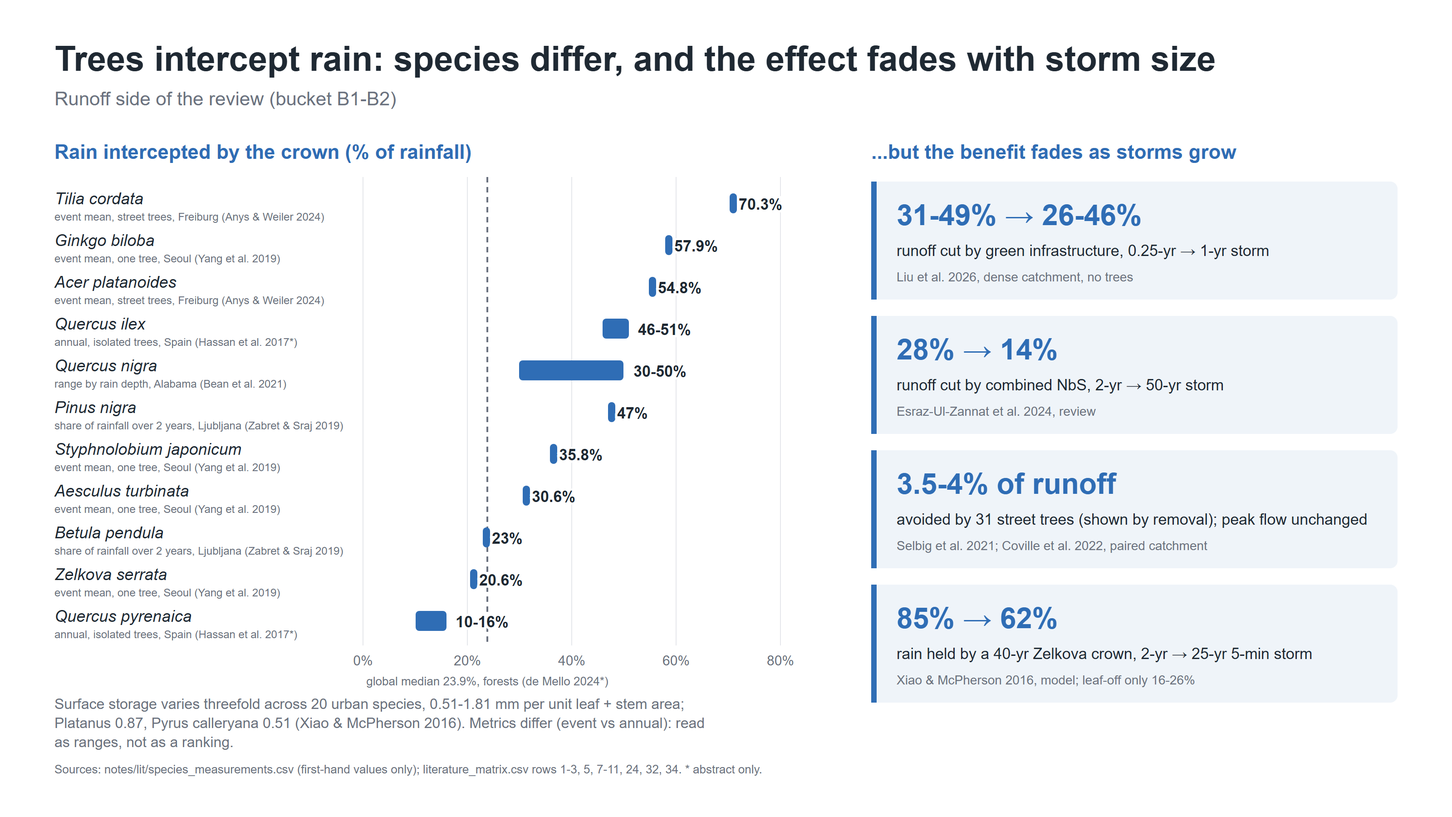
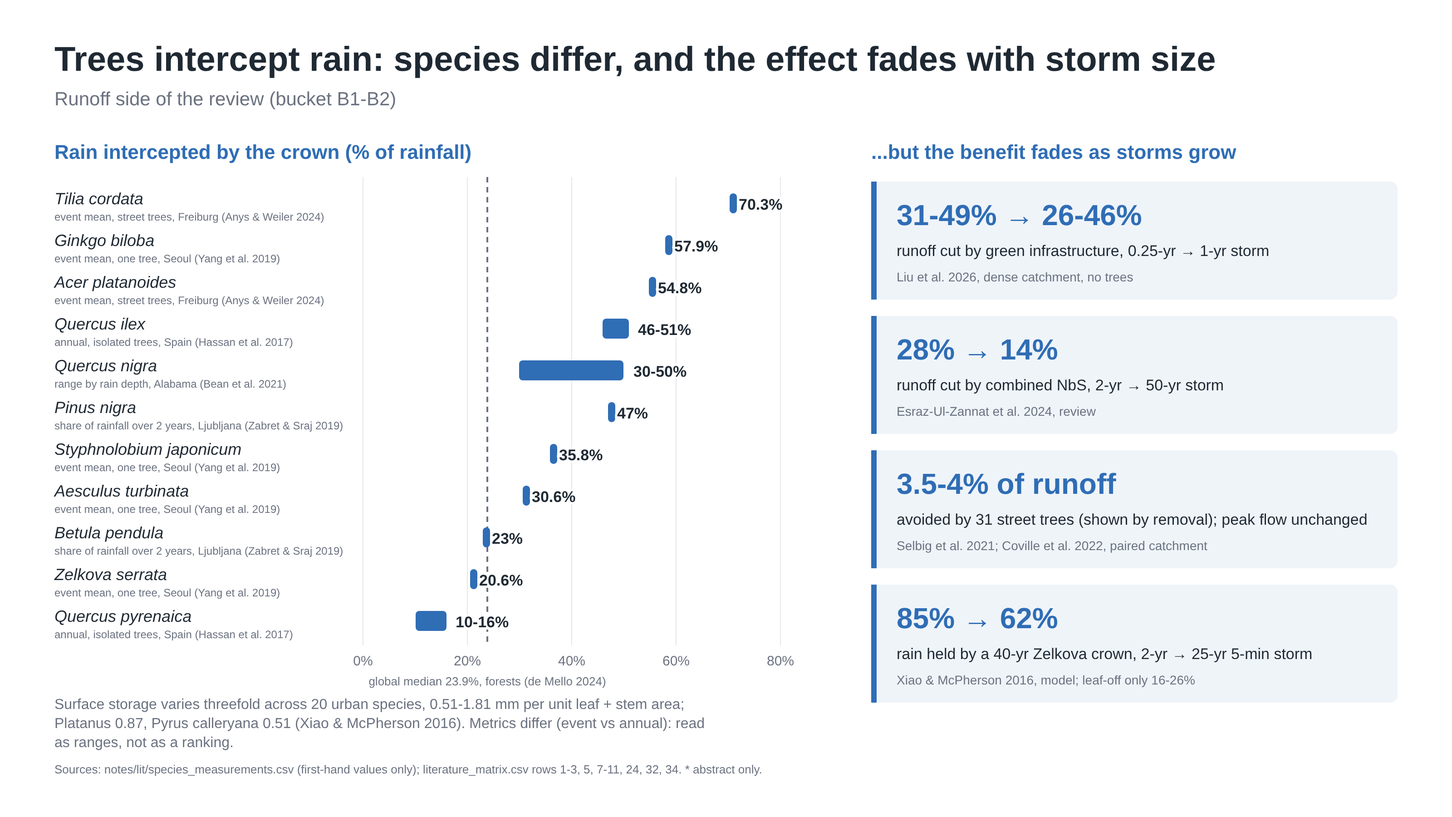
Read five priority papers in full and update matrix, notes and figures
Dowtin 2023, Hassan 2017, de Mello 2024, Rahman 2019 and Kaluarachchi
2020 move from abstract-only to full text. Adds Hassan Gash parameters
and event-size interception, Kaluarachchi field LAI for Platanus, Pyrus
and Jacaranda, Mediterranean nuance from Rahman to the heat module, and
removes the abstract-only markers from infographics 01-03.

Claude-Session: https://claude.ai/code/session_01RSaTmNbwipyEKh3hVkoffb

diff --git a/scripts/make_infographics.py b/scripts/make_infographics.py
@@ -144,7 +144,7 @@ def fig_runoff_evidence():
     for v in range(0, 81, 20):
         b += line(sx(v), 195, sx(v), 205 + H, GRID, 1) + t(sx(v), 205 + H + 22, f"{v}%", 15, MUTED, anchor="middle")
     b += line(sx(23.9), 195, sx(23.9), 205 + H, MUTED, 2, "6 5")
-    b += t(sx(23.9), 205 + H + 44, "global median 23.9%, forests (de Mello 2024*)", 13, MUTED, anchor="middle")
+    b += t(sx(23.9), 205 + H + 44, "global median 23.9%, forests (de Mello 2024)", 13, MUTED, anchor="middle")
     for r in m.itertuples():
         star = "*" if r.read_level == "abstract" else ""
         b += t(60, y + 20, r.species, 18, italic=True)
@@ -180,7 +180,7 @@ def fig_traits():
     b += rect(xr, 150, cw, 44, RAIN, op=0.12) + t(xr + 18, 179, "RUNOFF: canopy interception", 20, RAIN, "bold")
     bands = [("HELP BOTH", TREE, [
         ("Leaf area (LAI, crown density)",
-         "Canopy density is the strongest driver of cooling (Rahman et al. 2019*); LAI and crown width matter most for shade (Speak et al. 2020*)",
+         "Canopy density is the strongest driver of cooling (Rahman et al. 2019); LAI and crown width matter most for shade (Speak et al. 2020*)",
          "Interception rises with LAI / PAI (Anys & Weiler 2024); leaf-area density drives storage capacity (Baptista et al. 2018)"),
         ("Crown size",
          "Big, dense crowns with a low base give the best shade and comfort (Helletsgruber et al. 2020)",
@@ -194,7 +194,7 @@ def fig_traits():
          "Dry soils before a storm give ~10% more runoff reduction; wet soils give more cooling (Pace et al. 2025)")]),
         ("LIMITS", MUTED, [
         ("Context",
-         "Surface material can outweigh tree traits for surface cooling (Kaluarachchi et al. 2020*)",
+         "Surface material can outweigh tree traits for surface cooling (Kaluarachchi et al. 2020)",
          "Leafy crowns hold only the first 2-4 mm of a storm, so canopies work best in short, light storms (Kuehler et al. 2017)")])]
     y = 208
     for band, col, rows in bands:

diff --git a/notes/topic_decision.md b/notes/topic_decision.md
@@ -3,7 +3,7 @@
 > **Update v3 (same day):** a dual heat + runoff version was added in §6 after a second literature round (21 heat papers, rows #35–#55) and a city screening (`notes/city_screening.md`). §1–§5 below are the runoff-only v2, kept as the fallback.
 
 Inputs (v2, 7 Oct): 34 papers in `notes/lit/literature_matrix.csv` (13 read as full-text digests, 21 from abstracts only, marked there; on 8 Oct the matrix has 61 rows, 47 read in full), plus `databases/data_inventory.md`.
-Citations below give author, year and the matrix row (#). Claims from abstracts only are marked (abs). **Still to do before 20 Oct:** read the full text of rows #4 and #10 (#3 read on 8 Oct; #18 digested from full text). These carry the argument.
+Citations below give author, year and the matrix row (#). Claims from abstracts only are marked (abs). Rows #4 and #10, which carry the argument, are now read in full (#3 on 8 Oct, #10 on 9 Oct, #4 on 12 Oct; #18 digested from full text).
 
 ---
 
@@ -13,7 +13,7 @@ Citations below give author, year and the matrix row (#). Claims from abstracts 
 |---|---|---|
 | **Flood type** | Florence: whole city exposed to pluvial and flash floods from the minor network and a ~800 km combined 19th-century sewer; hotspots in flat, highly sealed areas incl. historic centre, validated against historical pluvial events (Pacetti et al. 2022, #18). Emilia-Romagna May 2023: no hourly extremes, multi-day accumulation, return period >500 yr (Scoccimarro et al. 2025, #21); mainly stratiform rain at 2–5 mm/h on saturated soils (Cremonini et al. 2024, #61). Bologna Oct 2024: 160–180 mm/24 h on saturated soils, culverted streams overflowed (Arpae report; see data inventory). Ravone culvert insufficient for intense events (Dottori et al. 2014, #20) | **Florence fits a pluvial framing; Bologna's recent events do not.** v2 names *urban pluvial flooding from frequent short storms* and explicitly excludes multi-day/fluvial events |
 | **Testability** ("significantly reduces", "extreme precipitation") | Tree effect is largest for short, low-intensity storms and falls with depth and intensity (leafy crowns hold the first 2–4 mm, Kuehler et al. 2017 #9; Anys & Weiler 2024 #1; per-event interception falls from 87% to 1% as rain depth grows, Song et al. 2020 #12). Catchment experiment: 4% runoff-volume reduction from 31 street trees, **no peak-flow effect** (Selbig et al. 2021 #10); 3.5% of total runoff in the calibrated re-analysis (Coville et al. 2022 #11). NbS effect decays with return period (Costa et al. 2021 #23; Esraz-Ul-Zannat et al. 2024 #32; Liu et al. 2026 #24); the 10-yr storm, the most frequent one modelled, carries 74% of the expected annual flood damage in Aveiro (Quagliolo et al. 2023 #60) | Metric = **event runoff volume** from sealed surfaces (not peak discharge). Storms = **local design storms of 2, 5, 10-yr return period, ≥1 h** (Tuscany LSPP grid; ≥1 h avoids the 15-min aggregation bias, Lompi et al. 2022 #19). Baseline and comparison defined (§4) |
-| **Traits vs biomass** | Interception differs strongly between species: storage capacity varies threefold among 20 species (Xiao & McPherson 2016 #3); *Tilia cordata* 70% vs *Acer platanoides* 55% event interception (Anys & Weiler 2024 #1); *Quercus ilex* 46–51% vs *Q. pyrenaica* 10–16% (Hassan et al. 2017 #8 (abs)); birch 23% vs pine 47% (Zabret & Sraj 2019 #7); *Ginkgo* 58% vs *Zelkova* 21%, one tree each (Yang et al. 2019 #5). LAI / leaf area density is the main driver (LAI: Anys & Weiler #1; central-crown LAI and small leaves, not leaf area density: Yang et al. 2019 #5; leaf area density: Baptista et al. 2018 #6); full trait list in Dowtin et al. 2023 #4 (abs) | Supported for *interception*: species traits (storage capacity, LAI, leaf area density) matter, not just size. **Not** supported for roots: only two lab studies (#16, #17). Bartens et al. 2008 (#16, read in full) show that tree roots raise infiltration through compacted subsoil, but black oak (coarse roots) and red maple (fine roots) did not differ significantly. Zhang et al. 2019 (#17, read in full) found +118% (tap-rooted *Sophora*) vs +19% (fibrous *Malus*), but for three-year-old saplings in lab tanks, measured one year after planting. v2 drops "deep root architecture" as a claim and keeps roots out of the scoring |
+| **Traits vs biomass** | Interception differs strongly between species: storage capacity varies threefold among 20 species (Xiao & McPherson 2016 #3); *Tilia cordata* 70% vs *Acer platanoides* 55% event interception (Anys & Weiler 2024 #1); *Quercus ilex* 46–51% vs *Q. pyrenaica* 10–16% of annual rain, one isolated tree each (Hassan et al. 2017 #8); birch 23% vs pine 47% (Zabret & Sraj 2019 #7); *Ginkgo* 58% vs *Zelkova* 21%, one tree each (Yang et al. 2019 #5). LAI / leaf area density is the main driver (LAI: Anys & Weiler #1; central-crown LAI and small leaves, not leaf area density: Yang et al. 2019 #5; leaf area density: Baptista et al. 2018 #6); full trait list in Dowtin et al. 2023 #4 (systematic review, 99 articles: LAI, canopy density, crown projection area, leaf angle, hydrophobicity, bark storage; directions only, no effect sizes) | Supported for *interception*: species traits (storage capacity, LAI, leaf area density) matter, not just size. **Not** supported for roots: only two lab studies (#16, #17). Bartens et al. 2008 (#16, read in full) show that tree roots raise infiltration through compacted subsoil, but black oak (coarse roots) and red maple (fine roots) did not differ significantly. Zhang et al. 2019 (#17, read in full) found +118% (tap-rooted *Sophora*) vs +19% (fibrous *Malus*), but for three-year-old saplings in lab tanks, measured one year after planting. v2 drops "deep root architecture" as a claim and keeps roots out of the scoring |
 | **Scope** | Florence offers hotspot maps (Pacetti #18), 1 m LiDAR, regional IDF grid, HSG 1:10,000 (used by Pacetti), 82k-tree inventory. NBS space in a hotspot district is only 0.1–7.1% of its area (Pacetti #18) | **One city (Florence), one scale (small catchment / district hotspot, ~0.5–2 km²), one intervention (street and square trees over sealed surfaces)** |
 | **User** | Tree-selection DSSs rarely include climate resilience (Yadav et al. 2024 #27); bioretention guidelines select plants by native status far more than by traits (Rahmi et al. 2025 #26: 47 guidelines, 3 of 30 North American ones name any trait; rain gardens, not street trees); SylvCiT's runoff module is disabled (Nicol et al. 2026 #28) | Primary user = **computational designer / landscape architect in the early design phase**. The municipal planner is the secondary reader of the outputs |
 
@@ -63,7 +63,7 @@ In a pluvial-flood hotspot catchment of Florence, how much event runoff volume f
 7. **Validation:** (i) interception module vs open Freiburg field data (Anys & Weiler 2024, FreiDok); (ii) per-tree and per-m² canopy results vs Selbig et al. 2021 / Coville et al. 2022 (field 6,376 L/tree, 66 L/m² canopy per leaf-on season; calibrated i-Tree Hydro 6,120 L/tree, 63.5 L/m²); (iii) hotspot consistency vs Pacetti PFI.
 
 ## 5. Open checks (before 20 Oct)
-- [ ] Get full text: Dowtin 2023 (#4). Done: Xiao & McPherson 2016 (#3) and Llorens & Domingo 2007 (#57, Mediterranean partitioning review) on 8 Oct; Selbig 2021 (#10) on 9 Oct. See `notes/lit/to_get_manually.md`.
+- [x] Get full text: Dowtin 2023 (#4), read on 12 Oct together with Hassan 2017 (#8), de Mello 2024 (#34), Rahman 2019 (#38) and Kaluarachchi 2020 (#45). Earlier: Xiao & McPherson 2016 (#3) and Llorens & Domingo 2007 (#57, Mediterranean partitioning review) on 8 Oct; Selbig 2021 (#10) on 9 Oct. See `notes/lit/to_get_manually.md`.
 - [x] Count species coverage: done for Florence and Barcelona, see `databases/*/species_coverage.csv` and §6.1.
 - [ ] Get full text of Llorens 2006 (Mediterranean rainfall partitioning): the most likely source for Quercus ilex / Pinus / evergreen interception values.
 - [ ] Confirm access to Tuscany HSG 1:10,000 and Pacetti's PFI map (ask authors?).
@@ -77,8 +77,8 @@ In a pluvial-flood hotspot catchment of Florence, how much event runoff volume f
 | Question | Evidence | Verdict |
 |---|---|---|
 | Do cities suffer both, in the same places? | Florence: pluvial hotspots in the flat, sealed centre (Pacetti 2022 #18); the hottest stations are also in the centre, with less green (Petralli, #49, search summary); in the centre, street air is ~1.5 C warmer than in gardens on average and up to ~2 C on calm evenings in May (Petralli et al. 2006 #76). Barcelona: high UHI mortality (Iungman 2023 #35) and recurrent intense-rain flooding in dense districts (Barcelona Resilience Atlas). Mediterranean review confirms the dual exposure (Stavropoulos 2026 #54) | **Yes** (see `notes/city_screening.md`) |
-| Do the same tree traits drive both? | Interception rises with LAI / leaf area density (Anys & Weiler 2024 #1; Yang 2019 #5). Shade cooling rises with canopy density, LAI and crown width (Rahman 2019 #38 (abs); Speak 2020 #39 (abs); Helletsgruber 2020 #40). The flip side: heat that thins crowns cuts both at once (Platanus lost roughly 30–50% of its plant area index after a > 41 °C heatwave, Sanusi & Livesley 2020 #66) | **Partly shared**: LAI and crown size help both |
-| Where do they conflict? | (a) Leaf habit: evergreen crowns intercept in autumn–winter storms but block winter sun; seasonal LAI trade-off for comfort (Peng 2026 #53). (b) Water: transpiration is the larger air-cooling term (Park 2026 #42) and needs soil water (Pace 2025 #13); diffuse-porous species such as Platanus transpire 2–3× ring-porous ones (Bachofen 2025 #43). (c) Surface material can matter more than species for surface temperature (Kaluarachchi 2020 #45 (abs)) | **Real trade-offs**, so a multi-objective method is needed rather than one score |
+| Do the same tree traits drive both? | Interception rises with LAI / leaf area density (Anys & Weiler 2024 #1; Yang 2019 #5). Shade cooling rises with canopy density, LAI and crown width (Rahman 2019 #38: about 4 °C of surface cooling per unit LAI; shade cooling is largest over asphalt and in Mediterranean climates, transpiration is smallest in Mediterranean climates and about 10× lower for trees in paved pits than over grass; Speak 2020 #39 (abs); Helletsgruber 2020 #40). The flip side: heat that thins crowns cuts both at once (Platanus lost roughly 30–50% of its plant area index after a > 41 °C heatwave, Sanusi & Livesley 2020 #66) | **Partly shared**: LAI and crown size help both |
+| Where do they conflict? | (a) Leaf habit: evergreen crowns intercept in autumn–winter storms but block winter sun; seasonal LAI trade-off for comfort (Peng 2026 #53). (b) Water: transpiration is the larger air-cooling term (Park 2026 #42) and needs soil water (Pace 2025 #13); diffuse-porous species such as Platanus transpire 2–3× ring-porous ones (Bachofen 2025 #43). (c) Surface material can matter more than species for surface temperature: across 471 Sydney trees, LAI and crown area did not change the sun–shade surface difference, which ranged from −17.5 °C (concrete pavers) to −24.8 °C (bark mulch) (Kaluarachchi 2020 #45) | **Real trade-offs**, so a multi-objective method is needed rather than one score |
 | Is it already done? | Mannucci 2025 #51: Grasshopper + Ladybug + Kangaroo assess UTCI **and** runoff, but by scenario testing, with no species traits and no optimisation. Shaamala 2025 #52 and Peng 2026 #53 optimise species/placement for **heat only**; so do Hao 2023 #62 (genetic algorithm, identical trees), Elkhateeb 2025 #63 (Galapagos, shade only, hypothetical sites) and Oneto 2026 #64 (machine learning on Ladybug shading runs, species matched afterwards by size). Cortinovis 2022 #69 assesses heat and runoff for Barcelona, but city-wide, with trees as land cover. Closest: Tan & Liu 2026 #80 optimise species (crowns from US allometry) and positions of a fixed 30 trees for UTCI, CO2 uptake and diversity with a surrogate and NSGA-II in Grasshopper, but with no runoff. SylvCiT has neither (#28) | **Gap**: no method selects species *and* positions using measured traits for both objectives |
 | Is there trait data? | Florence top-30 species (80% of 82,226 trees): a species-level runoff or heat value exists for 19% of trees, both for 7%. Barcelona top-30 (91% of 140,404 street trees): 40% and 29% (Platanus alone 28.6%). **Celtis australis is #2 in both cities with no value at all**; Mediterranean evergreens (Cupressus, Quercus ilex for heat, Olea, Pinus pinea) are weakly covered (`databases/*/species_coverage.csv`) | **Usable with explicit gap-filling** (genus/leaf-habit classes + sensitivity analysis). The gap itself is a finding |
 

diff --git a/notes/methodology.md b/notes/methodology.md
@@ -34,7 +34,7 @@ For each tree: position, species, **height H, crown diameter D, crown base Hb** 
 ## 4. Runoff module (Python, later a Grasshopper component via Hops)
 Event based, per street segment:
 1. Rain depth P(T, d) from the PDISBA IDF curves, T = 1, 2, 10 yr, d = 1 h (plus observed storms if BCASA gauge data arrive; fallback: Netatmo personal weather stations, 5-min public data, r = 0.94 with official daily gauges for one event, 24 station pairs, Valencia, Rombeek et al. 2025; check station density in Nou Barris and the data terms first).
-2. **Canopy interception** over each crown's projection on sealed ground: storage-bucket I = min(P, S) with S from species storage capacity × LAI. An analytical Gash-type model (Hassan et al. 2017; Huang et al. 2017) is the refinement; Huang et al. validated it on two conifers only, and found the evaporation-to-rain ratio the most sensitive input. Stemflow is ignored (<1% of rain; Anys & Weiler 2024).
+2. **Canopy interception** over each crown's projection on sealed ground: storage-bucket I = min(P, S) with S from species storage capacity × LAI. An analytical Gash-type model (Hassan et al. 2017; Huang et al. 2017) is the refinement; Huang et al. validated it on two conifers only, and found the evaporation-to-rain ratio the most sensitive input. Hassan et al. give Mediterranean parameters for one isolated tree each: *Quercus ilex* S 1.75 mm, p 0.31, c 0.69, E/R 0.38; *Q. pyrenaica* S 0.66 mm, p 0.74, c 0.26, E/R 0.21. They used wet-canopy evaporation from throughfall regression; Penman-Monteith underestimated interception by 48–60%. Stemflow is ignored (<1% of rain; Anys & Weiler 2024).
 3. **Tree-pit infiltration**: pit area × infiltration rate × event duration (literature range; Bartens et al. 2008, Zhang et al. 2019). Absolute values from Bartens et al. (read in full): approximate container saturated conductivity of compacted clay loam (1.59 g/cm3) 1.3e-3 cm/s (~47 mm/h) without a tree, 3.0–3.9e-3 cm/s (~108–140 mm/h) with young oak or maple; 1.31e-3 vs 4.83e-5 cm/s (~47 vs ~1.7 mm/h) with vs without green ash (structural soil over compacted subsoil). These are lab values for the most restrictive layer, so use them only to bracket a sensitivity range. Zhang et al. (2019, read in full), three-year-old saplings in loam tanks, one year after planting: 0.28 m/d (~12 mm/h) without a tree, 0.33 m/d (+19%, fibrous *Malus baccata*), 0.61 m/d (~25 mm/h, +118%, tap-rooted *Sophora japonica* = *Styphnolobium*). Roots help; whether the effect depends on species is unclear (Bartens: oak vs maple not significant; Zhang: tap vs fibrous differ, young trees in tanks), so the term stays species-independent. Why the pit matters: once sealed surfaces drain onto the tree's soil, the canopy benefit fades and infiltration controls runoff; with run-on from 3× the soil area, raising infiltration from 0.036 to 3.6 mm/h cuts the November runoff probability from 89% to <1% (Marrazzo & Raimondi 2025, analytical model, *Platanus*, Lecco rain). Pit sizing (read in full): in Melbourne clay, 0.72 m² kerb pits draining ~200 m² kept a median 11% of runoff; ~90% retention needs a pit of 2.5–8% of its impervious catchment, and exfiltration (≥ 88%), not the young tree (~4%), removes the water (Grey et al. 2018). Established evergreen street trees transpired the equivalent of 17% of the annual runoff from the ~200 m² impervious catchment draining to each 6 m² trench, but the trench did not raise their transpiration (Thom et al. 2020; Apr–Sep modelled from ETo). If the pit is added, its variables are pit area relative to catchment and native-soil exfiltration; species enter through the crop factor (0.33–1.56 among 13 potted species, *Pyrus calleryana* in the high class; Thom et al. 2022), which matters little while trees are young (crop factor < 5% effect in Grey et al. 2018).
 4. Remaining rain on sealed surfaces → SCS curve number (CN ≈ 98 sealed) → **event runoff volume (m³)**.
 - **Validation:** (i) interception module vs the open Freiburg field data (Anys & Weiler 2024, FreiDok); (ii) per-tree and per-m²-canopy volumes vs paired-catchment benchmarks (Selbig et al. 2021: 6,376 L/tree; Coville et al. 2022: field 66 L/m² canopy per leaf-on season (Selbig et al., read in full: 4% of runoff, peak discharge unchanged; event data reported as a USGS data release, Carvin & Selbig 2021, not yet checked), calibrated i-Tree Hydro 6,120 L/tree and 63.5 L/m²; uncalibrated defaults gave about twice the total runoff); (iii) plausibility vs the flood-hazard index pattern.
@@ -43,9 +43,9 @@ Event based, per street segment:
 - **Grid:** 1 m over Porta (83.7 ha): roofs 29% (OSM footprints, CN 98), sealed open space 52% (CN 98), pervious 19% (NDVI 2017 ≥ 0.3 and LiDAR canopy < 2 m, or OSM park/garden/grass; CN 74 = TR-55 open space HSG C, *assumption*).
 - **Storms:** PDISBA city-level empirical IDF, design intensity (`databases/barcelona/pdisba_idf_city.csv`): T1-60 min 19.6 mm, T2-60 31.9 mm, T10-60 62.5 mm, T2-20 min 21.2 mm.
 - **Trees:** 2,600 LiDAR street-tree crowns (disk of LiDAR crown diameter; LAI = LiDAR proxy). Non-street canopy (parks, squares, private; 10.2 ha) is fixed background (LAI 2.3).
-- **Calibration** of effective canopy storage S = s·LAI on Anys & Weiler (2024) open field data (16 urban *Tilia cordata* / *Acer platanoides*, Apr–Sep 2021, 51 events ≥ 1 mm): **s = 1.75 mm per unit LAI** (pooled median; lime 1.85, maple 1.60), per-tree interception 38–78% of rain, event RMSE 0.9–3.2 mm. The effective value includes evaporation during events; for Barcelona's short intense storms it may be lower, so 0.86 mm (surface storage only, Xiao & McPherson 2016) is the lower bound in the sensitivity runs. Plausibility of s: leafy crowns hold the first 2–4 mm of a storm (Kuehler et al. 2017), and S = 1.75 × 2.3 ≈ 4.0 mm; Coville et al. (2022) set i-Tree Hydro's leaf storage depth to 2.0 mm (typical 0.07–0.6, mean 0.25 mm) from in-situ estimates to match the field data, while noting that the value may be site-specific. Lower-bound evidence: Leyton storage 3.5 mm at LAI 2.6 (birch) and 2.9 mm at LAI 4.3 (pine), i.e. ~1.35 and ~0.67 mm per unit LAI (Zabret & Sraj 2019; surface storage only, without evaporation during events). Default leaf storage of 0.2 mm (Wang et al. 2008 via Huang et al. 2017; Dickinson 1984 via Marrazzo & Raimondi 2025) may underestimate interception.
+- **Calibration** of effective canopy storage S = s·LAI on Anys & Weiler (2024) open field data (16 urban *Tilia cordata* / *Acer platanoides*, Apr–Sep 2021, 51 events ≥ 1 mm): **s = 1.75 mm per unit LAI** (pooled median; lime 1.85, maple 1.60), per-tree interception 38–78% of rain, event RMSE 0.9–3.2 mm. The effective value includes evaporation during events; for Barcelona's short intense storms it may be lower, so 0.86 mm (surface storage only, Xiao & McPherson 2016) is the lower bound in the sensitivity runs. Plausibility of s: leafy crowns hold the first 2–4 mm of a storm (Kuehler et al. 2017), and S = 1.75 × 2.3 ≈ 4.0 mm; Coville et al. (2022) set i-Tree Hydro's leaf storage depth to 2.0 mm (typical 0.07–0.6, mean 0.25 mm) from in-situ estimates to match the field data, while noting that the value may be site-specific. Lower-bound evidence: Leyton storage 3.5 mm at LAI 2.6 (birch) and 2.9 mm at LAI 4.3 (pine), i.e. ~1.35 and ~0.67 mm per unit LAI (Zabret & Sraj 2019; surface storage only, without evaporation during events); Jackson-method storage 1.75 mm at LAI 2.1 (*Quercus ilex*) and 0.66 mm at LAI 1.6 (*Q. pyrenaica*), i.e. ~0.83 and ~0.41 mm per unit LAI (Hassan et al. 2017). Default leaf storage of 0.2 mm (Wang et al. 2008 via Huang et al. 2017; Dickinson 1984 via Marrazzo & Raimondi 2025) may underestimate interception.
 - **Results (T2-60):** current street trees reduce Porta runoff by **1.85%** (open space only: 2.9%); the range across s = 0.86–2.2 and T = 1–10 yr is 0.4–4.0% (open space 0.7–6.3%). Plausibility: the same order as the measured 3.5–4% (Selbig et al. 2021; Coville et al. 2022). City-wide, Cortinovis et al. (2022) also found a small effect for Barcelona: 20,170 new street trees raised runoff retention from 50.18% to 50.76% for a 20 mm event (curve number, trees as land cover). Replacing all plane trees by mature Jacaranda/Melia/Tipuana: +0.17/+0.22/+0.27% runoff; by Celtis/Brachychiton: +0.60%; by Pyrus: +0.69%; **any young replacement: ≈ +0.7% (≈ 37% of the current street-tree benefit lost during the transition)**. The benefit shrinks with return period, supporting H3. Figure: `notes/figures/runoff_results_v1.png`.
-- **Known limits:** the LiDAR LAI proxy (median ~2.3) is probably lower than TLS-measured LAI (Freiburg 2.6–4.9), so storage is likely underestimated; the same s is used for every species (species differ only through crown size and LAI); no routing, sewer or ponding (volume only); tree pits are not yet modelled separately.
+- **Known limits:** the LiDAR LAI proxy (median ~2.3) is probably lower than TLS-measured LAI (Freiburg 2.6–4.9), so storage is likely underestimated. The bias is not the same for every species. Field LAI from a canopy imager in Sydney (Kaluarachchi et al. 2020) is 2.8 for *Platanus* (Porta proxy 2.31) and 2.6 for *Pyrus calleryana* (proxy 2.08), but only 2.0 for *Jacaranda* (proxy 2.91). The cities and methods differ, so treat this as a check of direction, not a correction; the same s is used for every species (species differ only through crown size and LAI); no routing, sewer or ponding (volume only); tree pits are not yet modelled separately.
 
 ## 5. Heat module (Ladybug Tools in Grasshopper now, Infrared City API later)
 **Tier 1, fast, used for many layouts:** point-based UTCI at 1.1 m on a 2 m sidewalk grid.
@@ -54,7 +54,7 @@ Limit: crowns act as opaque, so species differences enter only through crown siz
 **Tier 2, detailed check of a few layouts:** `HB UTCI Comfort Map` (Honeybee: Radiance + EnergyPlus), with trees as HB Shades carrying a Radiance transmittance modifier and an energy transmittance schedule (leaf-on/off) from τ. Run locally or on Pollination.
 **Later: Infrared City API** (UTCI/MRT in seconds) replaces Tier 1 inside the optimisation loop. Questions for the tutor are in `topic_decision.md` §6.4.
 - **Metrics:** mean UTCI on sun-exposed sidewalks at the design hour; share of points in **strong heat stress (UTCI > 32 °C)** or above (stress classes: Bröde et al. 2012 *(to add)*); hours > 32 °C over the hot week (Tier 2).
-- **Known limits:** the EPW is from the airport, not the city centre (test +1/+2 °C air-temperature offsets as sensitivity); UTCI uses wind at 10 m; transpiration cooling of air is not represented in Tier 1 (state it; Park 2026 shows it can exceed shading for air temperature). A fixed summer LAI overstates plane trees in heatwaves above ~40 °C (rare in Barcelona so far): Platanus lost roughly 30–50% of its plant area index after four days at 41.7–43.9 °C in Melbourne (Sanusi & Livesley 2020), so the plane baseline gets a low-LAI variant in the sensitivity runs. The design hour (day) misses night effects: dense tree clusters trap heat at night (Zölch et al. 2019); report it as a limit.
+- **Known limits:** the EPW is from the airport, not the city centre (test +1/+2 °C air-temperature offsets as sensitivity); UTCI uses wind at 10 m; transpiration cooling of air is not represented in Tier 1 (state it; Park 2026 shows it can exceed shading for air temperature). The omission matters less for Porta: in a meta-analysis of 26 field studies, transpiration per leaf area was lowest in Mediterranean climates (0.55 vs 6.96 g m⁻² min⁻¹ in Oceanic ones) and ~10× lower for trees in paved pits than over grass, while shade cooling of surfaces was largest over asphalt (Rahman et al. 2019; few Mediterranean studies, so possible bias). A fixed summer LAI overstates plane trees in heatwaves above ~40 °C (rare in Barcelona so far): Platanus lost roughly 30–50% of its plant area index after four days at 41.7–43.9 °C in Melbourne (Sanusi & Livesley 2020), so the plane baseline gets a low-LAI variant in the sensitivity runs. The design hour (day) misses night effects: dense tree clusters trap heat at night (Zölch et al. 2019); report it as a limit.
 - **Validation:** Ladybug vs ENVI-met in a Mediterranean square: UTCI MBE 0.8–2.3 °C, CVRMSE 7–13%; MRT worse under direct sun (CVRMSE 22–38%) (Mannucci et al. 2025). Tier 1 vs Tier 2 on the same layouts; optional MRT spot measurements in Porta (globe thermometer) on a hot day.
 
 ## 6. Optimisation

diff --git a/notes/lit/to_get_manually.md b/notes/lit/to_get_manually.md
@@ -5,14 +5,14 @@ Paywalled, or no open-access PDF found by the search. Get them through Zotero / 
 **Status 9 Oct 2026:** 45 of 96 obtained and read in full, plus Santos Nouri 2018 (added by hand); 51 of the list still to get. Years in the entries are the search's (often online) years; the matrix uses the issue year (e.g. Zölch 2019, Cortinovis 2022, Marrazzo 2025).
 
 ## 1. Get these first (6)
-Dowtin, Hassan, de Mello, Rahman 2019, Speak and Kaluarachchi carry claims that the slides, figures or notes still take from abstracts only.
+Dowtin, Hassan, de Mello, Rahman 2019, Speak and Kaluarachchi carry claims that the slides, figures or notes took from abstracts only. **12 Oct: all but Speak read in full.**
 
-- [ ] [T1] Asia L. Dowtin (2023). Towards optimized runoff reduction by urban tree cover: A review of key physical tree traits, site conditions, and management strategies. https://doi.org/10.1016/j.landurbplan.2023.104849 **Why:** review of the tree traits that reduce runoff. (matrix #4, abstract only)
-- [ ] [T1] Tarique Hassan (2017). Remote sensing upscaling of interception loss from isolated oaks: Sardon catchment case study, Spain. https://doi.org/10.1016/j.jhydrol.2017.08.016 **Why:** Quercus ilex vs Q. pyrenaica bars in figure 2 (abstract only). (matrix #8, abstract only)
-- [ ] [T1] Carlos Rogério de Mello (2024). Deciphering global patterns of forest canopy rainfall interception (FCRI): A synthesis of geographical, forest species, and methodological influences. https://doi.org/10.1016/j.jenvman.2024.120879 **Why:** global median interception line in figure 2 (abstract only). (matrix #34, abstract only)
-- [ ] [T1] Mohammad A. Rahman (2019). Traits of trees for cooling urban heat islands: A meta-analysis. https://doi.org/10.1016/j.buildenv.2019.106606 **Why:** tree-trait cooling meta-analysis, figure 3 (abstract only). (matrix #38, abstract only)
+- [x] [T1] Asia L. Dowtin (2023). Towards optimized runoff reduction by urban tree cover: A review of key physical tree traits, site conditions, and management strategies. https://doi.org/10.1016/j.landurbplan.2023.104849 **Why:** review of the tree traits that reduce runoff. (matrix #4, full text (12 Oct))
+- [x] [T1] Tarique Hassan (2017). Remote sensing upscaling of interception loss from isolated oaks: Sardon catchment case study, Spain. https://doi.org/10.1016/j.jhydrol.2017.08.016 **Why:** Quercus ilex vs Q. pyrenaica bars in figure 2 (abstract only). (matrix #8, full text (12 Oct))
+- [x] [T1] Carlos Rogério de Mello (2024). Deciphering global patterns of forest canopy rainfall interception (FCRI): A synthesis of geographical, forest species, and methodological influences. https://doi.org/10.1016/j.jenvman.2024.120879 **Why:** global median interception line in figure 2 (abstract only). (matrix #34, full text (12 Oct))
+- [x] [T1] Mohammad A. Rahman (2019). Traits of trees for cooling urban heat islands: A meta-analysis. https://doi.org/10.1016/j.buildenv.2019.106606 **Why:** tree-trait cooling meta-analysis, figure 3 (abstract only). (matrix #38, full text (12 Oct))
 - [ ] [T1] Andrew Francis Speak (2020). The influence of tree traits on urban ground surface shade cooling. https://doi.org/10.1016/j.landurbplan.2020.103748 **Why:** tree traits for shade cooling, figure 3 (abstract only). (matrix #39, abstract only)
-- [ ] [T1] Kaluarachichi T.U.N. (2020). Temperature Reduction in Urban Surface Materials through Tree Shading Depends on Surface Type Not Tree Species. https://doi.org/10.3390/f11111141 **Why:** surface type vs species, figure 3 (abstract only); MDPI, should be open access. (matrix #45, abstract only)
+- [x] [T1] Kaluarachichi T.U.N. (2020). Temperature Reduction in Urban Surface Materials through Tree Shading Depends on Surface Type Not Tree Species. https://doi.org/10.3390/f11111141 **Why:** surface type vs species, figure 3 (abstract only); MDPI, should be open access. (matrix #45, full text (12 Oct))
 
 ## 2. Still to get, rest of the list (45)
 
